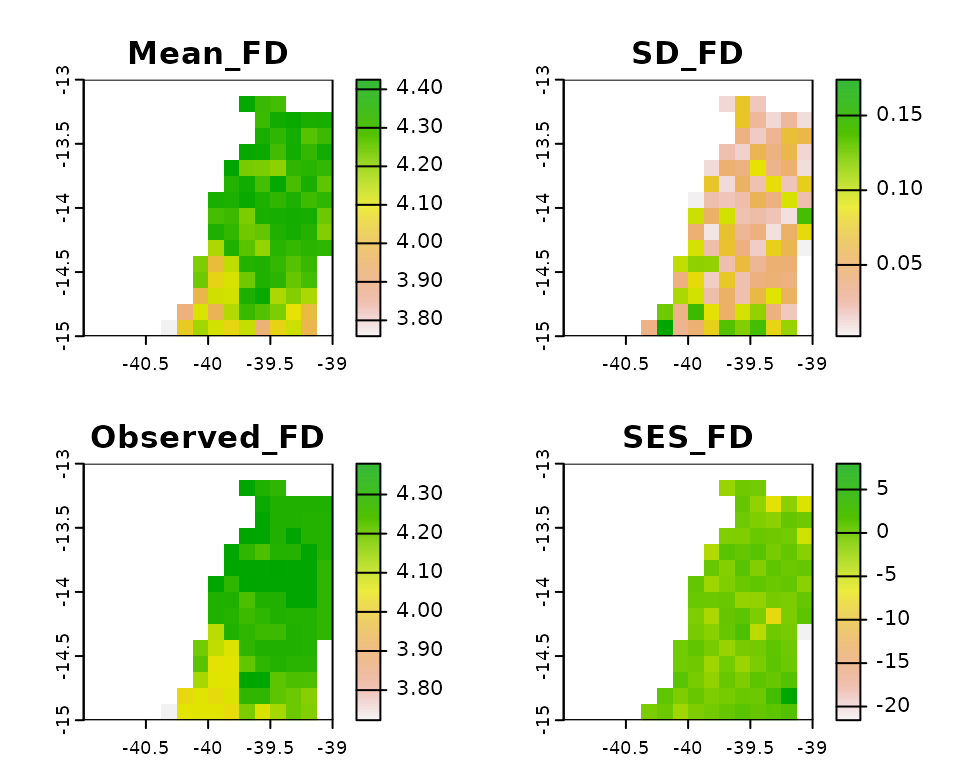
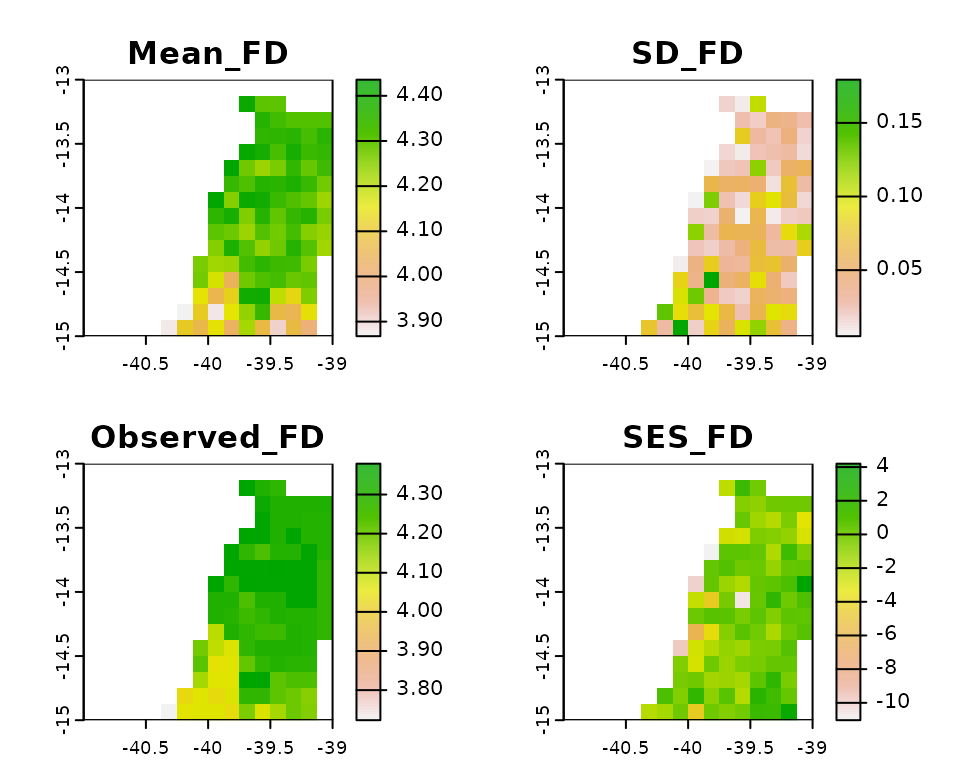
Deploying to gh-pages from @ flaviomoc/divraster@31a5cafced7f3b8f4dc09014ca187083dbeb38d1 🚀

diff --git a/articles/DMSD-vignette.html b/articles/DMSD-vignette.html
@@ -261,8 +261,8 @@ PD alpha diversity.</p>
 <span><span class="co">#&gt; coord. ref. : lon/lat WGS 84 (EPSG:4326) </span></span>
 <span><span class="co">#&gt; source(s)   : memory</span></span>
 <span><span class="co">#&gt; names       :  Mean_FD,       SD_FD, Observed_FD,     SES_FD </span></span>
-<span><span class="co">#&gt; min values  : 3.758846, 0.002315378,    3.723151, -21.573172 </span></span>
-<span><span class="co">#&gt; max values  : 4.425062, 0.173984410,    4.378846,   7.978274</span></span>
+<span><span class="co">#&gt; min values  : 3.867731, 0.005156558,    3.723151, -11.031019 </span></span>
+<span><span class="co">#&gt; max values  : 4.435728, 0.179340477,    4.378846,   4.201724</span></span>
 <span><span class="fu">terra</span><span class="fu">::</span><span class="fu"><a href="https://rdrr.io/pkg/terra/man/plot.html" class="external-link">plot</a></span><span class="op">(</span><span class="va">ses.fd</span>, main <span class="op">=</span> <span class="fu"><a href="https://rdrr.io/r/base/names.html" class="external-link">names</a></span><span class="op">(</span><span class="va">ses.fd</span><span class="op">)</span><span class="op">)</span></span></code></pre></div>
 <p><img src="DMSD-vignette_files/figure-html/unnamed-chunk-6-1.png" width="480" style="display: block; margin: auto;"></p>
 <div class="sourceCode" id="cb8"><pre class="downlit sourceCode r">
@@ -276,9 +276,9 @@ PD alpha diversity.</p>
 <span><span class="co">#&gt; extent      : -41, -39, -15, -13  (xmin, xmax, ymin, ymax)</span></span>
 <span><span class="co">#&gt; coord. ref. : lon/lat WGS 84 (EPSG:4326) </span></span>
 <span><span class="co">#&gt; source(s)   : memory</span></span>
-<span><span class="co">#&gt; names       :  Mean_PD,    SD_PD, Observed_PD,    SES_PD </span></span>
-<span><span class="co">#&gt; min values  : 1623.352,  1.14636,    1623.451, -5.894651 </span></span>
-<span><span class="co">#&gt; max values  : 1876.303, 86.43440,    1880.676,  9.573102</span></span>
+<span><span class="co">#&gt; names       :  Mean_PD,      SD_PD, Observed_PD,    SES_PD </span></span>
+<span><span class="co">#&gt; min values  : 1646.407,  0.2859101,    1623.451, -4.500056 </span></span>
+<span><span class="co">#&gt; max values  : 1875.096, 72.4294706,    1880.676, 28.018516</span></span>
 <span><span class="fu">terra</span><span class="fu">::</span><span class="fu"><a href="https://rdrr.io/pkg/terra/man/plot.html" class="external-link">plot</a></span><span class="op">(</span><span class="va">ses.pd</span>, main <span class="op">=</span> <span class="fu"><a href="https://rdrr.io/r/base/names.html" class="external-link">names</a></span><span class="op">(</span><span class="va">ses.pd</span><span class="op">)</span><span class="op">)</span></span></code></pre></div>
 <p><img src="DMSD-vignette_files/figure-html/unnamed-chunk-6-2.png" width="480" style="display: block; margin: auto;"></p>
 </div>

diff --git a/reference/spat.rand.html b/reference/spat.rand.html
@@ -137,8 +137,8 @@ a calling function.</p></dd>
 <span class="r-out co"><span class="r-pr">#&gt;</span> coord. ref. : lon/lat WGS 84 (EPSG:4326) </span>
 <span class="r-out co"><span class="r-pr">#&gt;</span> source(s)   : memory</span>
 <span class="r-out co"><span class="r-pr">#&gt;</span> names       :  Mean_PD,      SD_PD, Observed_PD,    SES_PD </span>
-<span class="r-out co"><span class="r-pr">#&gt;</span> min values  : 3.872901, 0.05406634,    3.359948, -9.487467 </span>
-<span class="r-out co"><span class="r-pr">#&gt;</span> max values  : 9.729261, 1.15653613,   10.571964,  7.179864 </span>
+<span class="r-out co"><span class="r-pr">#&gt;</span> min values  : 2.904360, 0.05865393,    3.359948, -7.453924 </span>
+<span class="r-out co"><span class="r-pr">#&gt;</span> max values  : 9.836963, 1.02796774,   10.571964,  4.723308 </span>
 <span class="r-in"><span><span class="fu">spat.rand</span><span class="op">(</span><span class="va">x</span>, <span class="va">traits</span>, <span class="fl">3</span>, <span class="st">"site"</span><span class="op">)</span></span></span>
 <span class="r-out co"><span class="r-pr">#&gt;</span> class       : SpatRaster </span>
 <span class="r-out co"><span class="r-pr">#&gt;</span> dimensions  : 8, 8, 4  (nrow, ncol, nlyr)</span>
@@ -146,9 +146,9 @@ a calling function.</p></dd>
 <span class="r-out co"><span class="r-pr">#&gt;</span> extent      : 0, 1, 0, 1  (xmin, xmax, ymin, ymax)</span>
 <span class="r-out co"><span class="r-pr">#&gt;</span> coord. ref. : lon/lat WGS 84 (EPSG:4326) </span>
 <span class="r-out co"><span class="r-pr">#&gt;</span> source(s)   : memory</span>
-<span class="r-out co"><span class="r-pr">#&gt;</span> names       :   Mean_FD,       SD_FD, Observed_FD,    SES_FD </span>
-<span class="r-out co"><span class="r-pr">#&gt;</span> min values  : 0.5285021, 0.009312925,   0.2374052, -37.66849 </span>
-<span class="r-out co"><span class="r-pr">#&gt;</span> max values  : 1.2248022, 0.199672349,   1.2493508,   7.33785 </span>
+<span class="r-out co"><span class="r-pr">#&gt;</span> names       :   Mean_FD,      SD_FD, Observed_FD,    SES_FD </span>
+<span class="r-out co"><span class="r-pr">#&gt;</span> min values  : 0.4919485, 0.02339968,   0.2374052, -8.593981 </span>
+<span class="r-out co"><span class="r-pr">#&gt;</span> max values  : 1.1611781, 0.25458588,   1.2493508,  6.723325 </span>
 <span class="r-in"><span></span></span>
 </code></pre></div>
     </div>

diff --git a/news/index.html b/news/index.html
@@ -53,8 +53,8 @@
     <div class="section level2">
 <h2 class="pkg-version" data-toc-text="1.0.3" id="divraster-103">divraster 1.0.3<a class="anchor" aria-label="anchor" href="#divraster-103"></a></h2>
 <ul><li>Improvements in function descriptions.</li>
-<li>Minor correction in function tests.</li>
-<li>Citation file added <a href="https://github.com/flaviomoc/divraster/issues/2" class="external-link">#2</a>.</li>
+<li>Minor correction in function tests <a href="https://github.com/flaviomoc/divraster/issues/2" class="external-link">#2</a>.</li>
+<li>Citation file added.</li>
 </ul></div>
     <div class="section level2">
 <h2 class="pkg-version" data-toc-text="1.0.2" id="divraster-102">divraster 1.0.2<a class="anchor" aria-label="anchor" href="#divraster-102"></a></h2><p class="text-muted">CRAN release: 2023-06-27</p>
